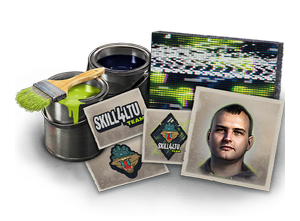
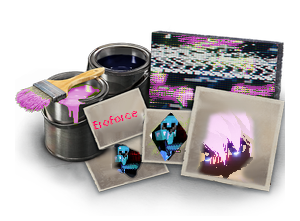
added more info to main page, changed images/added images

diff --git a/src/Pages/Main.js b/src/Pages/Main.js
@@ -24,25 +24,87 @@ const Main = () => {
           <div className="flex flex-col xl:flex-row relative z-10">
             <div className="flex mt-2">
               <div className="flex text-center w-full align-middle justify-center mb-4 flex-col xl:flex-row">
-                <div className="m-auto"></div>
-                <img
-                  className="xl:w-48"
-                  src={require("../Images/skillpackage.png")}
-                  alt="Skill4ltu Pack"
-                ></img>
+                <div className="m-auto">
+                  <img
+                    className="xl:w-48"
+                    src={require("../Images/skillpackage.png")}
+                    alt="Skill4ltu Pack"
+                  ></img>
+                </div>
+                <ul className="text-xs my-auto mx-4">
+                  <li>
+                    <span className="bg-red-700 text-white text-xs px-2 rounded-md">
+                      10% TIP INCLUDED
+                    </span>
+                  </li>
+                  <li className="px-2">Style: EroForce, assault</li>
+                  <li className="px-2">6xEmblem: Team EroForce</li>
+                  <li className="px-2">6xInscription: Team EroForce</li>
+                  <li className="px-2">3xDecal: Team EroForce</li>
+                  <li className="px-2">EroForce Commander</li>
+                </ul>
+                <div className="m-auto mx-4 flex-row justify-center">
+                  <h3 className="font-bold mb-2">
+                    Check your price in your region
+                  </h3>
+                  <ul className="flex space-x-4 mx-auto justify-center">
+                    <li>
+                      <a
+                        className="bg-realm reu"
+                        href="https://eu.wargaming.net/shop/wot/specials/skill4ltu_fight/"
+                        target="_EU"
+                      >
+                        {" "}
+                      </a>
+                    </li>
+                    <li>
+                      <a
+                        className="bg-realm rna"
+                        href="https://na.wargaming.net/shop/wot/specials/skill4ltu_fight/"
+                        target="_NA"
+                      >
+                        {" "}
+                      </a>
+                    </li>
+                    <li>
+                      <a
+                        className="bg-realm rasia"
+                        href="https://asia.wargaming.net/shop/wot/specials/skill4ltu_fight/"
+                        target="_ASIA"
+                      >
+                        {" "}
+                      </a>
+                    </li>
+                  </ul>
+                  <p className="text-sm mt-2 text-orange-600">
+                    Please login first!
+                  </p>
+                </div>
               </div>
-              <ul className="text-xs my-auto mx-4">
-                <li>
-                  <span className="bg-red-500 text-white text-xs px-2 rounded-md">
-                    10% TIP INCLUDED
-                  </span>
-                </li>
-                <li className="px-2"></li>
-              </ul>
             </div>
           </div>
+          <hr className="mb-3 border-wg-header"></hr>
+          <h2 className="mb-4 text-xl lg:text-2xl font-bold leading-none wg-heading-color">
+            Search for a tank{" "}
+            <span className="border-wg-heading border-b-4">by name</span>...
+          </h2>
+          <input
+            className="bg-wg-mutted placeholder-wg-page text-wg-page px-4 py-2 rounded-md w-full focus:bg-wg-heading focus:ring-wg-accent focus:border-wg-accent"
+            type="search"
+            name="vehicle"
+            placeholder="Vehicle name (min 2 characters) in 543 vehicles"
+            autoComplete="off"
+            value=""
+          ></input>
         </div>
-        <div className="w-full lg:w-2/5"></div>
+        <div className="w-full lg:w-2/5">
+          <img
+            className="items-end shadow-lg rounded border-4 border-wg-crew filter drop-shadow-wg w-full h-3/5"
+            src={require("../Images/mirny.webp")}
+            alt="EroForce"
+            title="EroForce"
+          ></img>
+        </div>
       </div>
       <div></div>
     </div>

diff --git a/src/App.css b/src/App.css
@@ -14,6 +14,73 @@
   border-color: rgba(38, 38, 43);
 }
 
+.border-wg-heading {
+  border-color: rgba(233, 226, 191);
+}
+
+.text-wg-page {
+  color: rgba(28, 28, 30);
+}
+
+.bg-wg-mutted {
+  background-color: rgba(140, 140, 124);
+}
+
+.placeholder-wg-page::placeholder {
+  color: rgba(28, 28, 30);
+}
+
+.border-wg-crew {
+  border-color: rgba(220, 20, 60);
+}
+
+.drop-shadow-wg {
+  filter: drop-shadow(0 8px 8px crimson);
+}
+
+.focus\:ring-wg-accent:focus {
+  outline: 2px solid rgba(242, 83, 34);
+}
+
+.focus\:bg-wg-heading:focus {
+  background-color: rgba(233, 226, 191);
+}
+
+.bg-realm {
+  display: block;
+  opacity: 0.4;
+  transition-property: opacity;
+  transition-timing-function: cubic-bezier(0.4, 0, 0.2, 1);
+  transition-duration: 0.3s;
+  width: 107px;
+  height: 59px;
+  background-image: url(./Images/realm.png);
+}
+
+.reu {
+  background-position: 0 0;
+}
+
+.reu:hover {
+  opacity: 1;
+}
+
+.rna {
+  background-position: 0 -295px;
+}
+
+.rna:hover {
+  opacity: 1;
+}
+
+.rasia {
+  background-position: 0 -236px;
+}
+
+.rasia:hover {
+  opacity: 1;
+}
+
 .App-link {
   color: #61dafb;
 }
